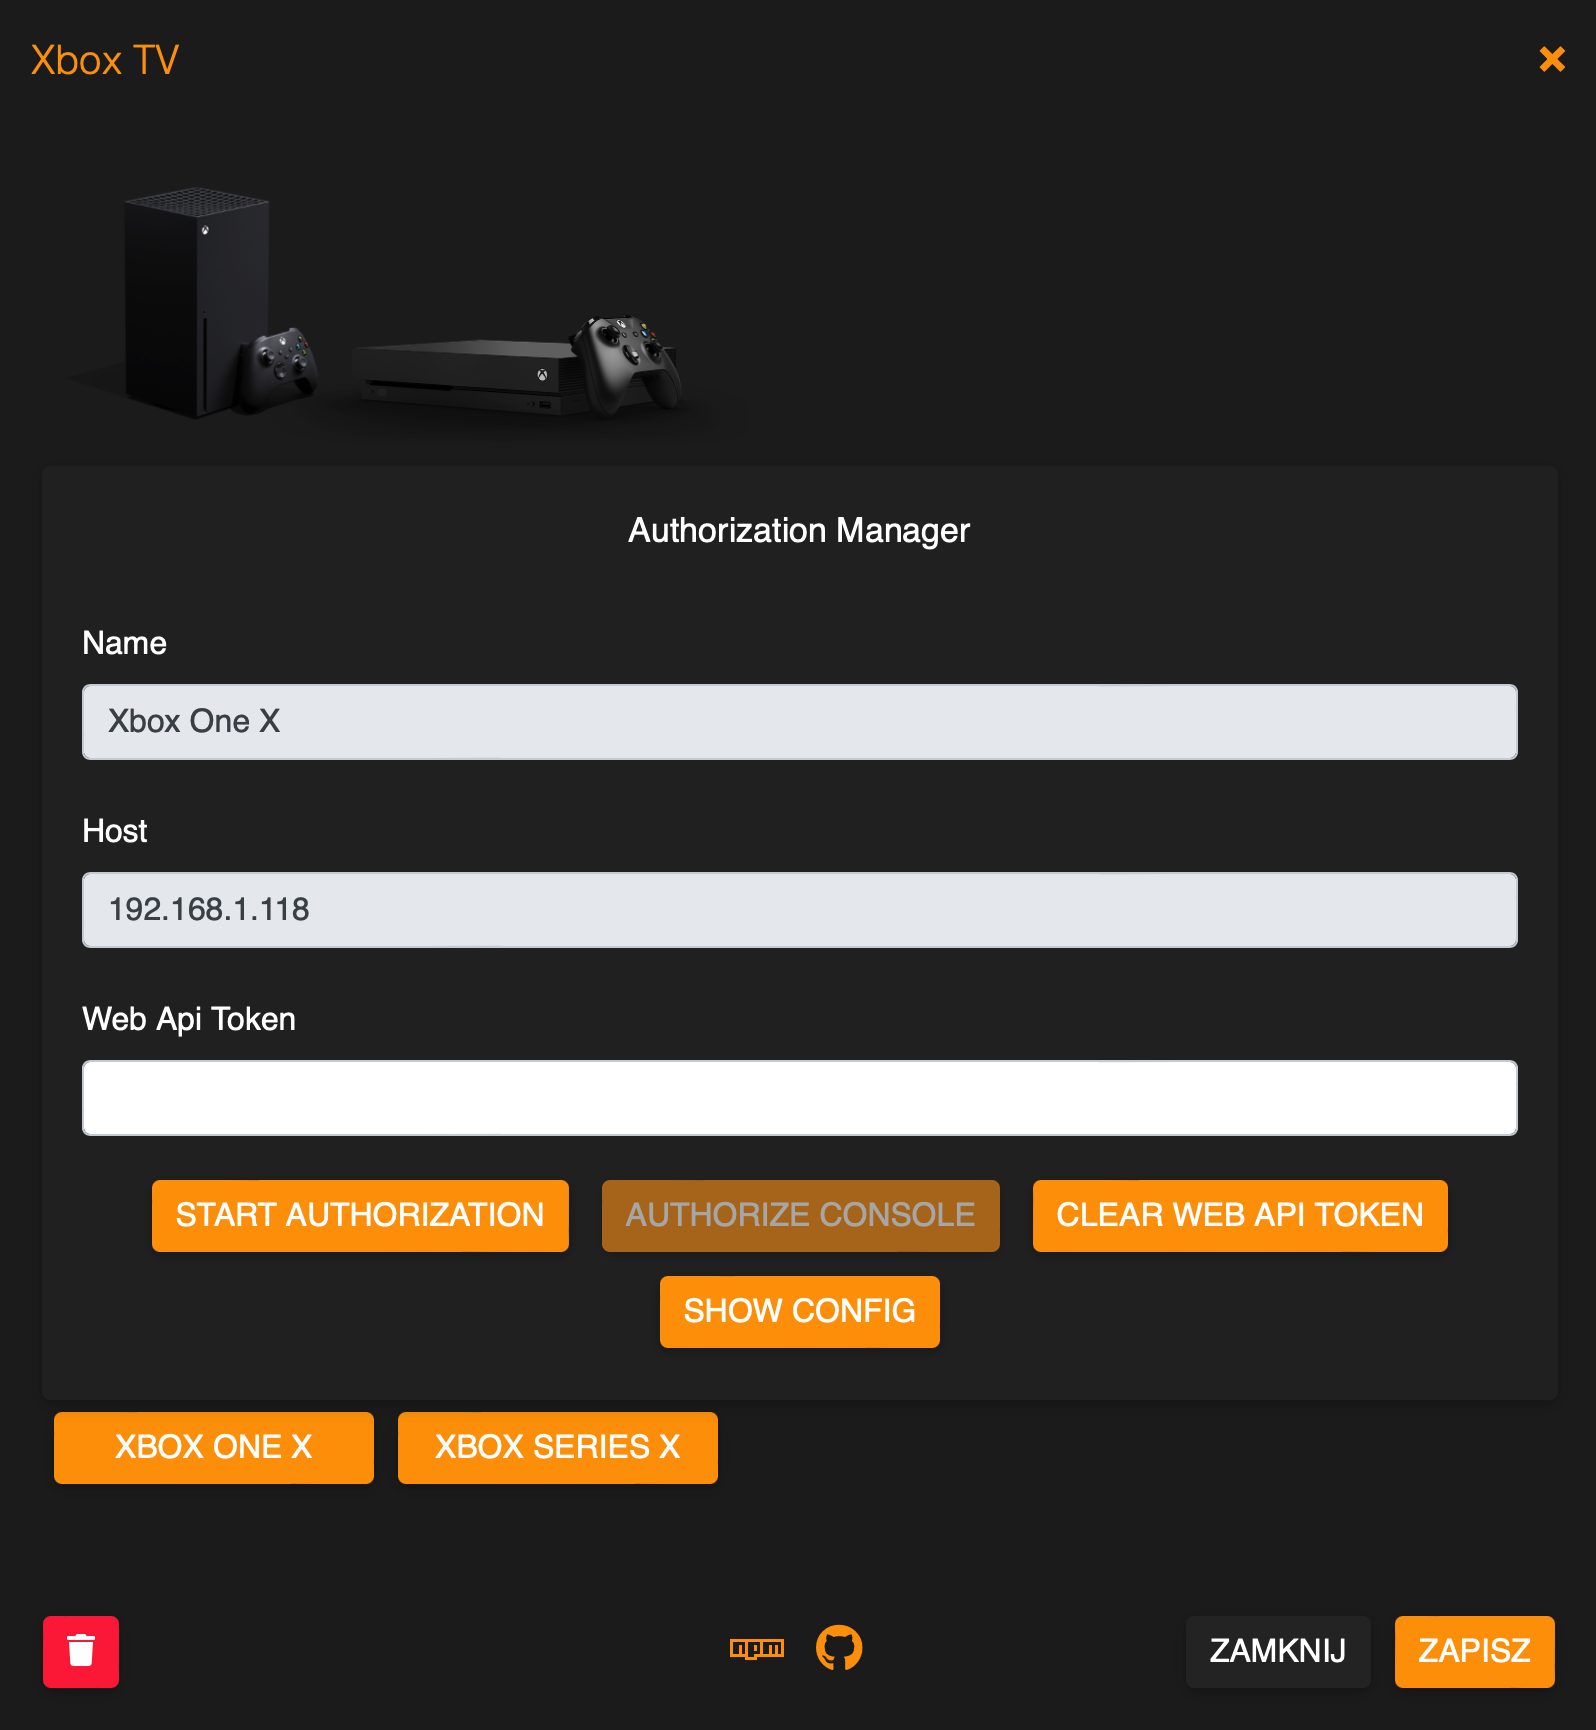
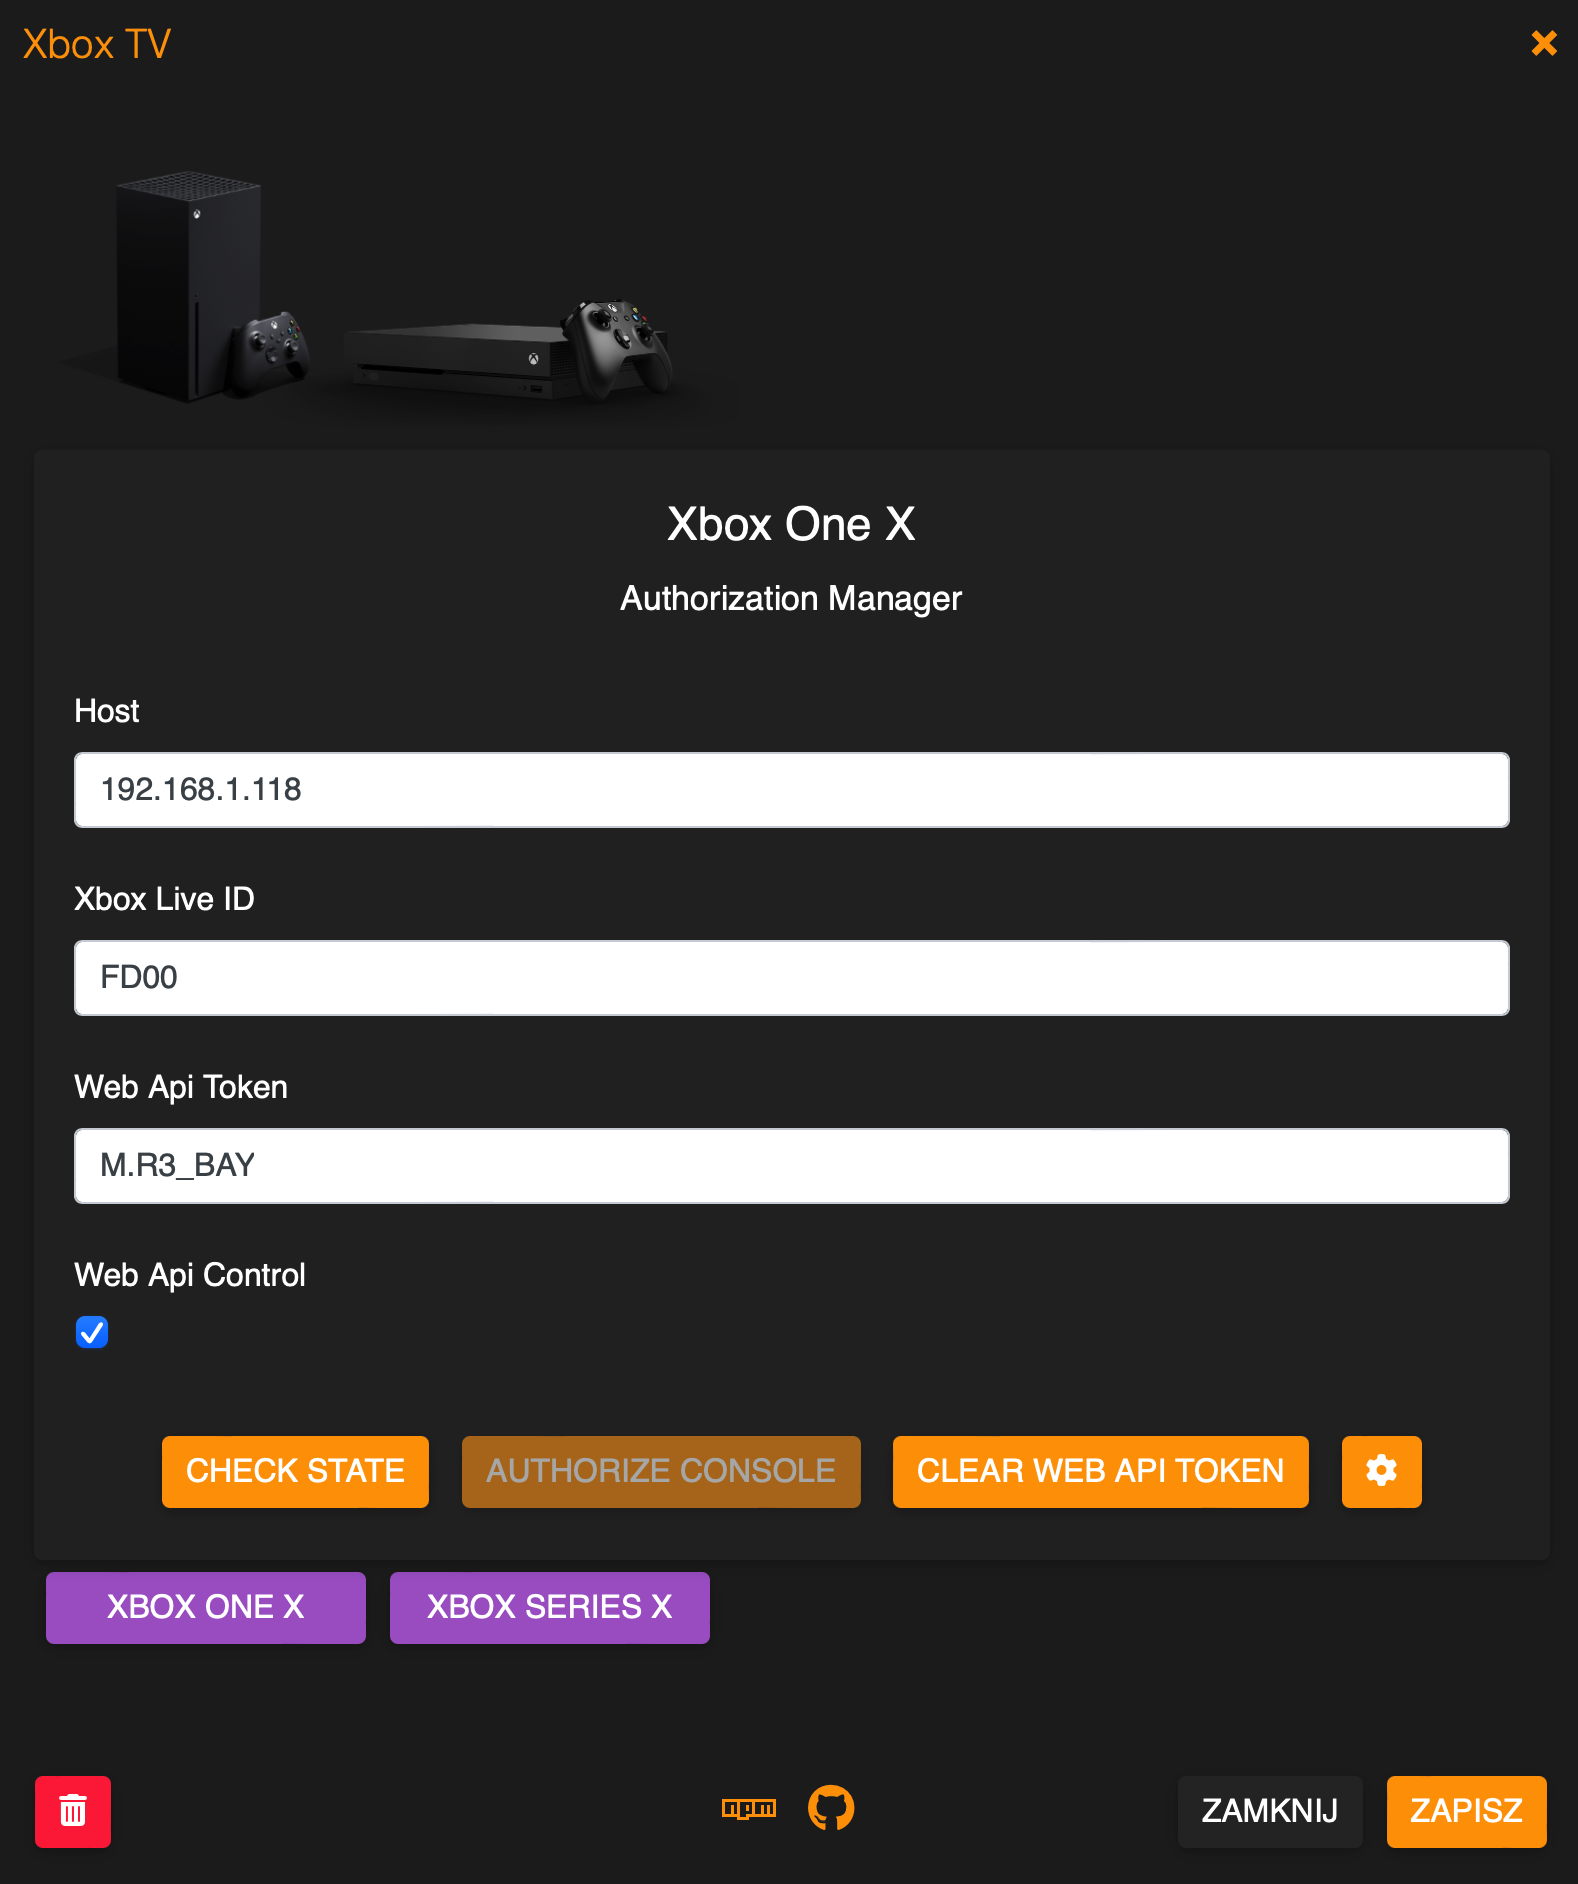
update layout of authorization manager

diff --git a/homebridge-ui/public/index.html b/homebridge-ui/public/index.html
@@ -1,35 +1,38 @@
-<div>
-  <img src="homebridge-xbox-tv.png" style="text-align: center;" height="150" />
-</div>
+<body>
+  <div>
+    <img src="homebridge-xbox-tv.png" style="text-align: center;" height="150" />
+  </div>
 
-<div id="authorizationManager" style="display: none;" class="card card-body">
-  <form id="configForm">
-    <div class="text-center">
-      <label id="deviceNameInput" style="font-size: 23px">Xbox</label><br>
-    </div>
-    <div class="text-center">
+  <div id="authorizationManager" style="display: none;" class="card card-body">
+    <form id="configForm">
       <div class="text-center">
-        <label id="info" style="text-align: center; font-size: 17px; color: white;">Authorization Manager</label><br><br>
+        <label id="deviceNameInput" style="font-size: 23px">Xbox</label><br>
       </div>
-    </div>
-    <div class="form-group">
-      <label for="deviceHostInput">Host</label>
-      <input type="text" class="form-control" id="deviceHostInput"><br>
-      <label for="deviceLiveId">Xbox Live ID</label>
-      <input type="text" class="form-control" id="deviceLiveId"><br>
-      <label for="deviceTokenInput">Web Api Token</label>
-      <input type="text" class="form-control" id="deviceTokenInput"><br>
-      <label for="deviceWebApiControl">Web Api Control</label>
-      <input type="checkbox" class="form-control" id="deviceWebApiControl">
-    </div>
-    <div class="text-center">
-      <button id="startAuthorizationButton" type="button" class="btn btn-primary">Start authorization</button>
-      <button id="authorizeConsoleButton" type="button" class="btn btn-primary">Authorize console</button>
-      <button id="clearTokenButton" type="button" class="btn btn-primary">Clear Web Api Token</button>
-      <button id="configButton" type="button" class="btn btn-primary">Show Config</button>
-    </div>
-  </form>
-</div>
+      <div class="text-center">
+        <div class="text-center">
+          <label id="info" style="text-align: center; font-size: 17px; color: white;">Authorization
+            Manager</label><br><br>
+        </div>
+      </div>
+      <div class="form-group">
+        <label for="deviceHostInput">Host</label>
+        <input type="text" class="form-control" id="deviceHostInput"><br>
+        <label for="deviceLiveId">Xbox Live ID</label>
+        <input type="text" class="form-control" id="deviceLiveId"><br>
+        <label for="deviceTokenInput">Web Api Token</label>
+        <input type="text" class="form-control" id="deviceTokenInput"><br>
+        <label for="deviceWebApiControl">Web Api Control</label>
+        <input type="checkbox" class="form-control" id="deviceWebApiControl">
+      </div>
+      <div class="text-center">
+        <button id="startAuthorizationButton" type="button" class="btn btn-primary">Start authorization</button>
+        <button id="authorizeConsoleButton" type="button" class="btn btn-primary">Authorize console</button>
+        <button id="clearTokenButton" type="button" class="btn btn-primary">Clear Web Api Token</button>
+        <button id="configButton" type="button" class="btn btn-primary"><i class="fas fa-gear"></i></button>
+      </div>
+    </form>
+  </div>
+</body>
 
 <script>
   (async () => {
@@ -80,11 +83,9 @@
     document.getElementById('configButton').addEventListener('click', async () => {
       const configButton = document.getElementById('configButton');
       if (this.configButtonState) {
-        configButton.innerText = "Show Config";
         await homebridge.hideSchemaForm();
         this.configButtonState = false;
       } else {
-        configButton.innerText = "Hide Config";
         await homebridge.showSchemaForm();
         this.configButtonState = true;
       };
